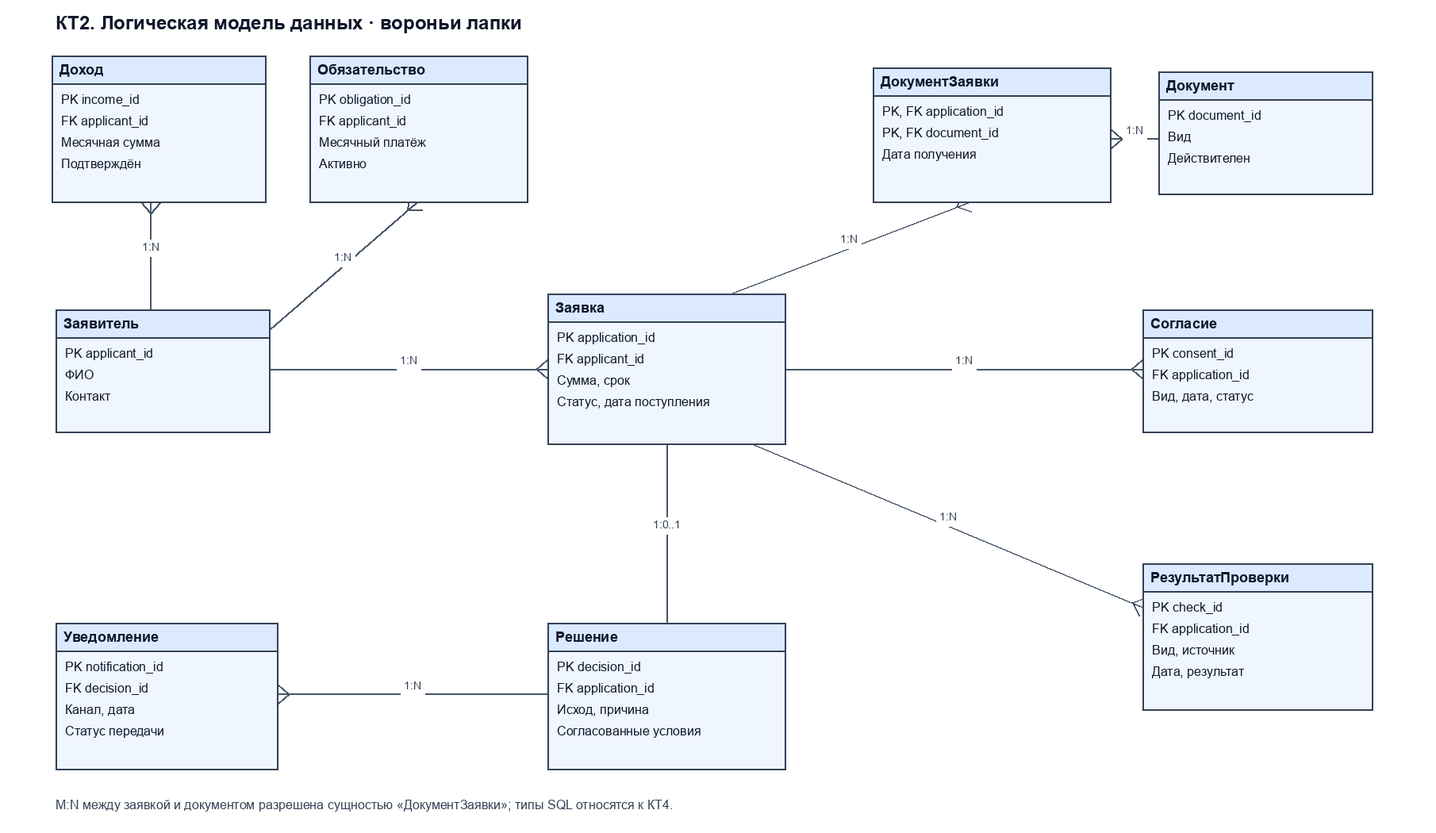
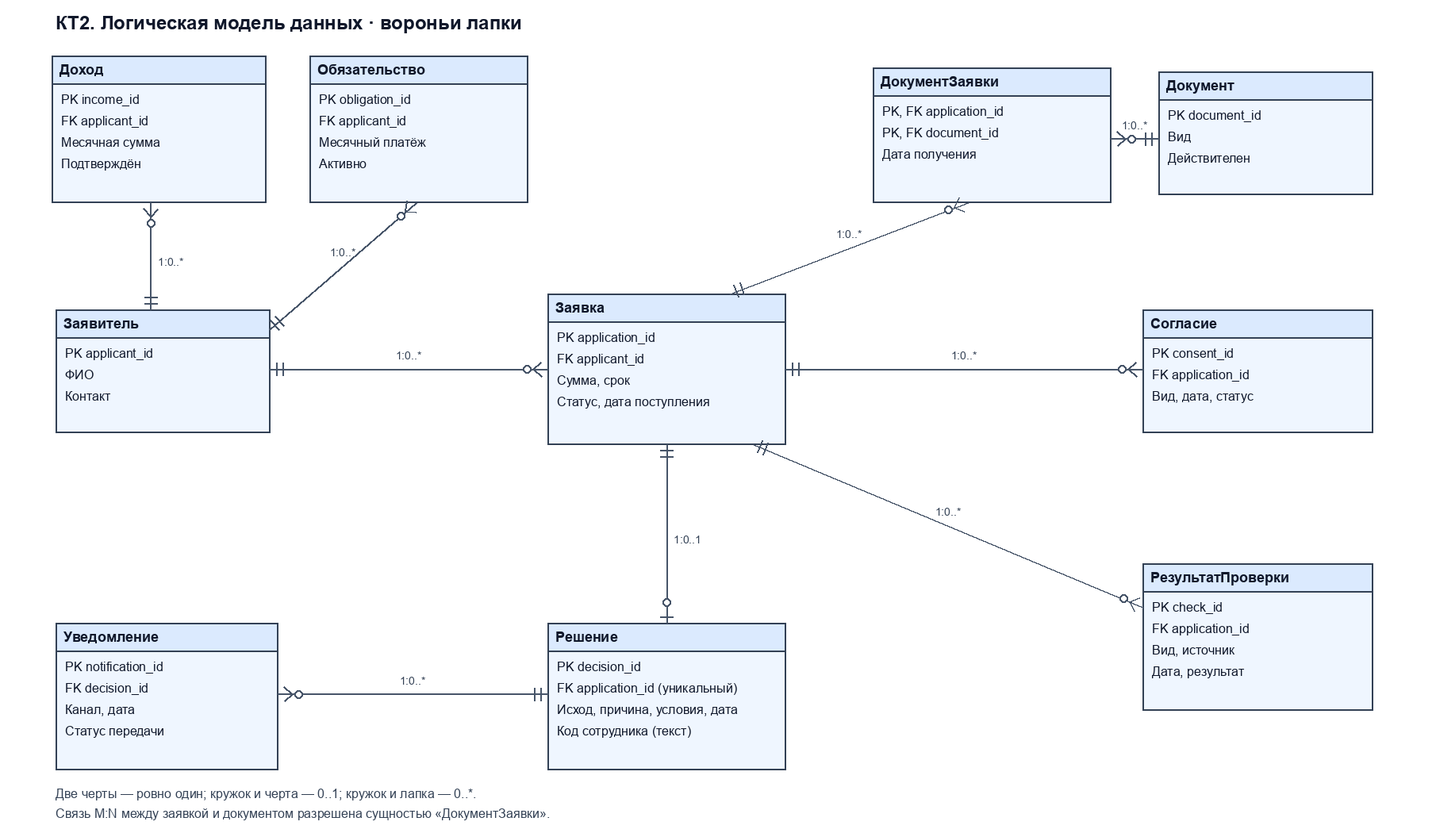
fix(kt2): specify ER cardinalities and decision data

diff --git a/tools/kt2_er.py b/tools/kt2_er.py
@@ -20,23 +20,25 @@ ENTITIES = [
     ("CheckResult", "РезультатПроверки", ["PK check_id", "FK application_id", "Вид, источник", "Дата, результат"], (1440, 710, 290, 185)),
     ("Income", "Доход", ["PK income_id", "FK applicant_id", "Месячная сумма", "Подтверждён"], (65, 70, 270, 185)),
     ("Obligation", "Обязательство", ["PK obligation_id", "FK applicant_id", "Месячный платёж", "Активно"], (390, 70, 275, 185)),
-    ("Decision", "Решение", ["PK decision_id", "FK application_id", "Исход, причина", "Согласованные условия"], (690, 785, 300, 185)),
+    ("Decision", "Решение", ["PK decision_id", "FK application_id (уникальный)", "Исход, причина, условия, дата", "Код сотрудника (текст)"], (690, 785, 300, 185)),
     ("Notification", "Уведомление", ["PK notification_id", "FK decision_id", "Канал, дата", "Статус передачи"], (70, 785, 280, 185)),
 ]
 
-# Parent 1 -> child N, except the single optional decision.
+# Every child references exactly one parent; a parent can have no children yet.
 RELATIONS = [
-    ("Applicant", "Application", "1:N", ((340, 465), (690, 465))),
-    ("Applicant", "Income", "1:N", ((190, 390), (190, 255))),
-    ("Applicant", "Obligation", "1:N", ((340, 415), (525, 255))),
-    ("Application", "ApplicationDocument", "1:N", ((920, 370), (1220, 255))),
-    ("Document", "ApplicationDocument", "1:N", ((1460, 175), (1400, 175))),
-    ("Application", "Consent", "1:N", ((990, 465), (1440, 465))),
-    ("Application", "CheckResult", "1:N", ((950, 560), (1440, 765))),
+    ("Applicant", "Application", "1:0..*", ((340, 465), (690, 465))),
+    ("Applicant", "Income", "1:0..*", ((190, 390), (190, 255))),
+    ("Applicant", "Obligation", "1:0..*", ((340, 415), (525, 255))),
+    ("Application", "ApplicationDocument", "1:0..*", ((920, 370), (1220, 255))),
+    ("Document", "ApplicationDocument", "1:0..*", ((1460, 175), (1400, 175))),
+    ("Application", "Consent", "1:0..*", ((990, 465), (1440, 465))),
+    ("Application", "CheckResult", "1:0..*", ((950, 560), (1440, 765))),
     ("Application", "Decision", "1:0..1", ((840, 560), (840, 785))),
-    ("Decision", "Notification", "1:N", ((690, 875), (350, 875))),
+    ("Decision", "Notification", "1:0..*", ((690, 875), (350, 875))),
 ]
 
+LEGEND = "Две черты — ровно один; кружок и черта — 0..1; кружок и лапка — 0..*."
+ASSOCIATION_NOTE = "Связь M:N между заявкой и документом разрешена сущностью «ДокументЗаявки»."
 
 def build_source(path: Path) -> None:
     mxfile = ET.Element("mxfile", {"host": "app.diagrams.net", "type": "device"})
@@ -60,16 +62,29 @@ def build_source(path: Path) -> None:
         ET.SubElement(cell, "mxGeometry", {
             "x": str(x), "y": str(y), "width": str(width), "height": str(height), "as": "geometry",
         })
-    for i, (source, target, cardinality, _) in enumerate(RELATIONS, 1):
-        arrow = "ERone" if cardinality == "1:0..1" else "ERmany"
+    boxes = {code: box for code, _, _, box in ENTITIES}
+    for i, (source, target, cardinality, (a, b)) in enumerate(RELATIONS, 1):
+        arrow = "ERzeroToOne" if cardinality == "1:0..1" else "ERzeroToMany"
+        sx, sy, sw, sh = boxes[source]
+        tx, ty, tw, th = boxes[target]
+        anchors = (f"exitX={(a[0] - sx) / sw:.4f};exitY={(a[1] - sy) / sh:.4f};"
+                   f"entryX={(b[0] - tx) / tw:.4f};entryY={(b[1] - ty) / th:.4f};")
         cell = ET.SubElement(root, "mxCell", {
             "id": f"Relation_{i}", "value": cardinality,
-            "style": "entityRelationEdgeStyle;html=0;rounded=0;jettySize=auto;orthogonalLoop=1;"
-                     f"startArrow=ERone;endArrow={arrow};startFill=0;endFill=0;"
-                     "strokeColor=#475569;fontSize=13;",
+            "style": "edgeStyle=none;html=0;rounded=0;"
+                     f"startArrow=ERmandOne;endArrow={arrow};startFill=0;endFill=0;"
+                     f"strokeColor=#475569;fontSize=14;{anchors}",
             "edge": "1", "parent": "1", "source": source, "target": target,
         })
         ET.SubElement(cell, "mxGeometry", {"relative": "1", "as": "geometry"})
+    for code, value, y in (("Legend", LEGEND, 993), ("AssociationNote", ASSOCIATION_NOTE, 1018)):
+        cell = ET.SubElement(root, "mxCell", {
+            "id": code, "value": value, "style": "text;align=left;fontSize=16;html=0;",
+            "vertex": "1", "parent": "1",
+        })
+        ET.SubElement(cell, "mxGeometry", {
+            "x": "70", "y": str(y), "width": "850", "height": "24", "as": "geometry",
+        })
     ET.indent(mxfile, space="  ")
     path.parent.mkdir(parents=True, exist_ok=True)
     ET.ElementTree(mxfile).write(path, encoding="utf-8", xml_declaration=True)
@@ -84,36 +99,46 @@ def build_png(path: Path) -> None:
     label_font = ImageFont.truetype("C:/Windows/Fonts/arial.ttf", 14)
     draw.text((70, 15), "КТ2. Логическая модель данных · вороньи лапки", font=title_font, fill="#0f172a")
 
-    def crowfoot(a: tuple[int, int], b: tuple[int, int]) -> None:
-        angle = math.atan2(b[1] - a[1], b[0] - a[0])
-        length = 14
-        base = (b[0] - length * math.cos(angle), b[1] - length * math.sin(angle))
-        perpendicular = (-math.sin(angle), math.cos(angle))
-        for offset in (-12, 0, 12):
-            tip = (b[0] + offset * perpendicular[0], b[1] + offset * perpendicular[1])
-            draw.line((base, tip), fill="#475569", width=2)
-
-    for source, target, cardinality, (a, b) in RELATIONS:
-        draw.line((a, b), fill="#475569", width=2)
-        if cardinality == "1:N":
-            crowfoot(a, b)
-        else:
-            draw.line((b[0] - 8, b[1], b[0] + 8, b[1]), fill="#475569", width=2)
-        midpoint = ((a[0] + b[0]) // 2, (a[1] + b[1]) // 2)
-        tw = draw.textbbox((0, 0), cardinality, font=label_font)[2]
-        draw.rectangle((midpoint[0] - tw // 2 - 4, midpoint[1] - 20,
-                        midpoint[0] + tw // 2 + 4, midpoint[1] + 1), fill="white")
-        draw.text((midpoint[0] - tw // 2, midpoint[1] - 19), cardinality,
-                  font=label_font, fill="#334155")
-
     for code, name, attributes, (x, y, width, height) in ENTITIES:
         draw.rectangle((x, y, x + width, y + height), fill="#eff6ff", outline="#334155", width=2)
         draw.rectangle((x, y, x + width, y + 36), fill="#dbeafe", outline="#334155", width=2)
         draw.text((x + 10, y + 7), name, font=header_font, fill="#0f172a")
         for i, attribute in enumerate(attributes):
             draw.text((x + 12, y + 46 + i * 27), attribute, font=body_font, fill="#0f172a")
-    draw.text((70, 1005), "M:N между заявкой и документом разрешена сущностью «ДокументЗаявки»; типы SQL относятся к КТ4.",
-              font=body_font, fill="#334155")
+
+    def marker(origin, remote, cardinality):
+        length = math.dist(origin, remote)
+        dx, dy = (remote[0] - origin[0]) / length, (remote[1] - origin[1]) / length
+
+        def point(distance, offset=0):
+            return (origin[0] + distance * dx - offset * dy,
+                    origin[1] + distance * dy + offset * dx)
+
+        if cardinality == "0..*":
+            for offset in (-9, 9):
+                draw.line((point(18), point(8, offset)), fill="#475569", width=2)
+        else:
+            draw.line((point(8, -8), point(8, 8)), fill="#475569", width=2)
+        if cardinality == "1":
+            draw.line((point(16, -8), point(16, 8)), fill="#475569", width=2)
+        else:
+            x, y = point(26)
+            draw.ellipse((x - 5, y - 5, x + 5, y + 5), fill="white", outline="#475569", width=2)
+
+    for _, _, cardinality, (a, b) in RELATIONS:
+        draw.line((a, b), fill="#475569", width=2)
+        marker(a, b, "1")
+        marker(b, a, cardinality.split(":")[1])
+        cx, cy = (a[0] + b[0]) // 2, (a[1] + b[1]) // 2
+        width = draw.textlength(cardinality, font=label_font)
+        if a[0] == b[0]:
+            cx += width / 2 + 9
+        else:
+            cy -= 25
+        draw.text((cx - width / 2, cy), cardinality, font=label_font, fill="#334155")
+
+    draw.text((70, 991), LEGEND, font=body_font, fill="#334155")
+    draw.text((70, 1016), ASSOCIATION_NOTE, font=body_font, fill="#334155")
     path.parent.mkdir(parents=True, exist_ok=True)
     image.save(path, "PNG")
 

diff --git a/docs/kt2/report_section.md b/docs/kt2/report_section.md
@@ -4,7 +4,7 @@
 
 Граница модели совпадает с границей процесса, выделенной в исследовательском разделе: от поступления заполненного обращения до уведомления заявителя о решении либо закрытия заявки после отзыва или истечения срока предоставления недостающих сведений. Договор, выдача средств и обслуживание долга в модель КТ2 не входят. Нотация BPMN 2.0 выбрана для явного разделения действий сотрудников, внешних участников, решений и потоков данных [21].
 
-В основном пуле «Микрофинансовая организация» выделены дорожки кредитного специалиста и уполномоченного сотрудника. Отдельные пулы показывают заявителя, бюро кредитных историй и сервис уведомлений. Внешние участники передают сведения, но не принимают решение по заявке. Начальное событие — поступление обращения; итоговые события — сообщение решения и закрытие заявки без решения после отзыва или истечения срока.
+В основном пуле «Микрокредитная компания» выделены дорожки кредитного специалиста и уполномоченного сотрудника. Отдельные пулы показывают заявителя, бюро кредитных историй и сервис уведомлений. Внешние участники передают сведения, но не принимают решение по заявке. Начальное событие — поступление обращения; итоговые события — сообщение решения и закрытие заявки без решения после отзыва или истечения срока.
 
 После регистрации специалист проверяет комплектность сведений. При нехватке данных он запрашивает уточнение. Если сведения получены, процесс возвращается к проверке комплектности; отзыв или истечение срока закрывают заявку с указанием основания. Далее следуют проверка личности и согласий, ограничений, при наличии основания — запрос сведений БКИ. Если ответ внешнего сервиса не получен, процесс остаётся в ожидании повторной проверки. Затем рассчитывается предварительная платёжная нагрузка и готовится предложение. Уполномоченный сотрудник принимает решение, результат фиксируется и направляется заявителю. При неудачной доставке выполняется повторная попытка уведомления. Таким образом, отказ и одобрение проходят через фиксацию решения, а отзыв и отсутствие сведений в срок не подменяются отказом.
 
@@ -43,14 +43,16 @@
 | РезультатПроверки | Итог проверки; вид, источник, дата, результат | PK check_id; FK application_id |
 | Доход | Подтверждённый доход; месячная сумма, подтверждение | PK income_id; FK applicant_id |
 | Обязательство | Действующий платёж; месячный платёж, активность | PK obligation_id; FK applicant_id |
-| Решение | Исход сотрудника; исход, причина, условия, дата, сотрудник | PK decision_id; FK application_id |
+| Решение | Исход сотрудника; исход, причина, условия, дата, текстовый код сотрудника | PK decision_id; уникальный FK application_id |
 | Уведомление | Попытка сообщения; канал, дата, статус передачи | PK notification_id; FK decision_id |
 
-«Заявитель» хранит ФИО и контакт; «Заявка» — сумму, срок, статус и дату поступления. Один заявитель может иметь несколько заявок (1:N), каждая заявка принадлежит одному заявителю. «Документ» описывает вид и действительность документа. Связь заявки и документа M:N раскрыта сущностью «ДокументЗаявки» с составным ключом из application_id и document_id, а также датой получения. Документ может использоваться в нескольких обращениях того же заявителя; принадлежность документа заявителю дополнительно контролируется логикой приложения.
+«Заявитель» хранит ФИО и контакт, «Заявка» — сумму, срок, статус и дату поступления. У заявителя может быть от нуля до нескольких заявок, каждая заявка принадлежит ровно одному заявителю. «Документ» описывает вид и действительность документа. Связь заявки и документа M:N раскрыта сущностью «ДокументЗаявки» с составным ключом из application_id и document_id, а также датой получения. Документ может использоваться в нескольких обращениях того же заявителя. Принадлежность документа заявителю дополнительно контролируется логикой приложения.
 
-«Согласие» и «РезультатПроверки» имеют внешние ключи заявки и допускают несколько записей на одну заявку. «Доход» и «Обязательство» связаны с заявителем и нужны для предварительного расчёта. У заявки допускается не более одного итогового решения (1:0..1). У одного решения может быть несколько попыток уведомления (1:N), поэтому неуспешная отправка не стирает историю.
+Две черты на диаграмме означают, что у каждой дочерней записи есть ровно одна родительская запись по данному внешнему ключу. Кружок с «лапкой» означает от нуля до нескольких дочерних записей. Это применимо, например, к согласиям и результатам проверки заявки, а также попыткам уведомления по решению. Для итогового решения кружок с чертой обозначает кратность от нуля до одного. Уникальность application_id в сущности «Решение» обеспечивает верхнюю границу. Атрибут employee_id хранит обязательный текстовый код сотрудника, указанный при регистрации решения. На этапе КТ2 справочник сотрудников отсутствует, поэтому employee_id не является внешним ключом.
 
-Нормализация выполнена до третьей нормальной формы [22]. В 1НФ поля атомарны: список документов не хранится строкой внутри заявки. Во 2НФ дата получения документа зависит от всей пары ключей в «ДокументЗаявки», а вид документа — только от document_id и поэтому вынесен в «Документ». В 3НФ контакт заявителя зависит от applicant_id, а не транзитивно от application_id; исход решения и его основание хранятся в «Решении», а не дублируются в «Заявке». Статус заявки отражает состояние процесса и должен обновляться согласованно с записью решения. Это устраняет типичные аномалии обновления, связанные с повторением контактов и свойств документов.
+Нормализация выполнена до третьей нормальной формы [22]. В 1НФ поля атомарны: список документов не хранится строкой внутри заявки. Во 2НФ дата получения зависит от всей пары ключей в «ДокументЗаявки», а вид документа — только от document_id и поэтому вынесен в «Документ». В 3НФ контакт заявителя хранится в «Заявителе», где зависит от applicant_id. Исход и основание определяются ключом записи «Решение». Это устраняет типичные аномалии обновления, связанные с повторением контактов и свойств документов.
+
+Для физической модели КТ4 предложено хранить в «Заявке» этап обработки, а итоговый статус approved или refused вычислять из «Исхода» связанного «Решения» при чтении. Запись решения и переход этапа в состояние «Решение зарегистрировано» должны происходить в одной транзакции. При отзыве или истечении срока заявка закрывается с основанием без записи решения. Так итог одобрения или отказа будет определяться единственным значением.
 
 ## 2.3 Алгоритмы автоматизируемых операций
 

diff --git a/docs/kt2/analysis.md b/docs/kt2/analysis.md
@@ -35,10 +35,12 @@
 | РезультатПроверки | Итог проверки личности, ограничений или БКИ | Вид, источник, дата, результат | `check_id` — PK; `application_id` — FK |
 | Доход | Подтверждённое сведение для предварительного расчёта | Месячная сумма, подтверждение | `income_id` — PK; `applicant_id` — FK |
 | Обязательство | Действующий платёж для расчёта | Месячный платёж, активность | `obligation_id` — PK; `applicant_id` — FK |
-| Решение | Принятый сотрудником исход | Исход, причина, согласованные параметры, дата, сотрудник | `decision_id` — PK; `application_id` — FK |
+| Решение | Принятый сотрудником исход | Исход, причина, согласованные параметры, дата, текстовый код сотрудника | `decision_id` — PK; `application_id` — уникальный FK |
 | Уведомление | Попытка доведения результата | Канал, дата, статус передачи | `notification_id` — PK; `decision_id` — FK |
 
-Один заявитель может подать много заявок; каждая заявка принадлежит одному заявителю (1:N). Заявка связана с несколькими документами, документ может подтверждать несколько обращений того же заявителя: M:N разрешена сущностью `ДокументЗаявки` с двумя связями 1:N. У заявки может быть много согласий и результатов проверок (1:N). Один заявитель может иметь несколько записей дохода и обязательства (1:N). У заявки может быть не более одного итогового решения (1:0..1); у решения — несколько попыток уведомления (1:N).
+Каждая дочерняя запись ссылается ровно на одну родительскую запись по каждому внешнему ключу. У родительской записи дочерних может пока не быть: связи обозначены как 1:0..*. Например, заявка может ещё не иметь ни одного согласия, а решение — ни одной попытки уведомления. Связь M:N заявки и документа разложена на две связи 1:0..* через `ДокументЗаявки`. Для пары «Заявка» — «Решение» допустимо не более одного решения на заявку (1:0..1).
+
+`employee_id` — обязательный текстовый код автора решения. В прототипе проверяется его заполненность. Справочник сотрудников и внешний ключ на него в логическую модель КТ2 не входят. Для физической модели предлагается вычислять итоговый статус из `Decision.outcome` при чтении и хранить в заявке только этап процесса. Запись решения и смена этапа должны выполняться в одной транзакции. Закрытая после отзыва или истечения срока заявка решения не имеет.
 
 Первая нормальная форма: атрибуты атомарны, список документов не записывается в одну ячейку заявки. Вторая: атрибут `received_at` в `ДокументЗаявки` зависит от всей пары ключей; свойства документа хранятся отдельно и зависят только от `document_id`. Третья: контакт заявителя зависит от `applicant_id`, а не от номера заявки; сведения о документе и решении также вынесены в отдельные сущности. Если повторять контакт и сведения документа в каждой заявке, их изменение приводило бы к противоречиям.
 
